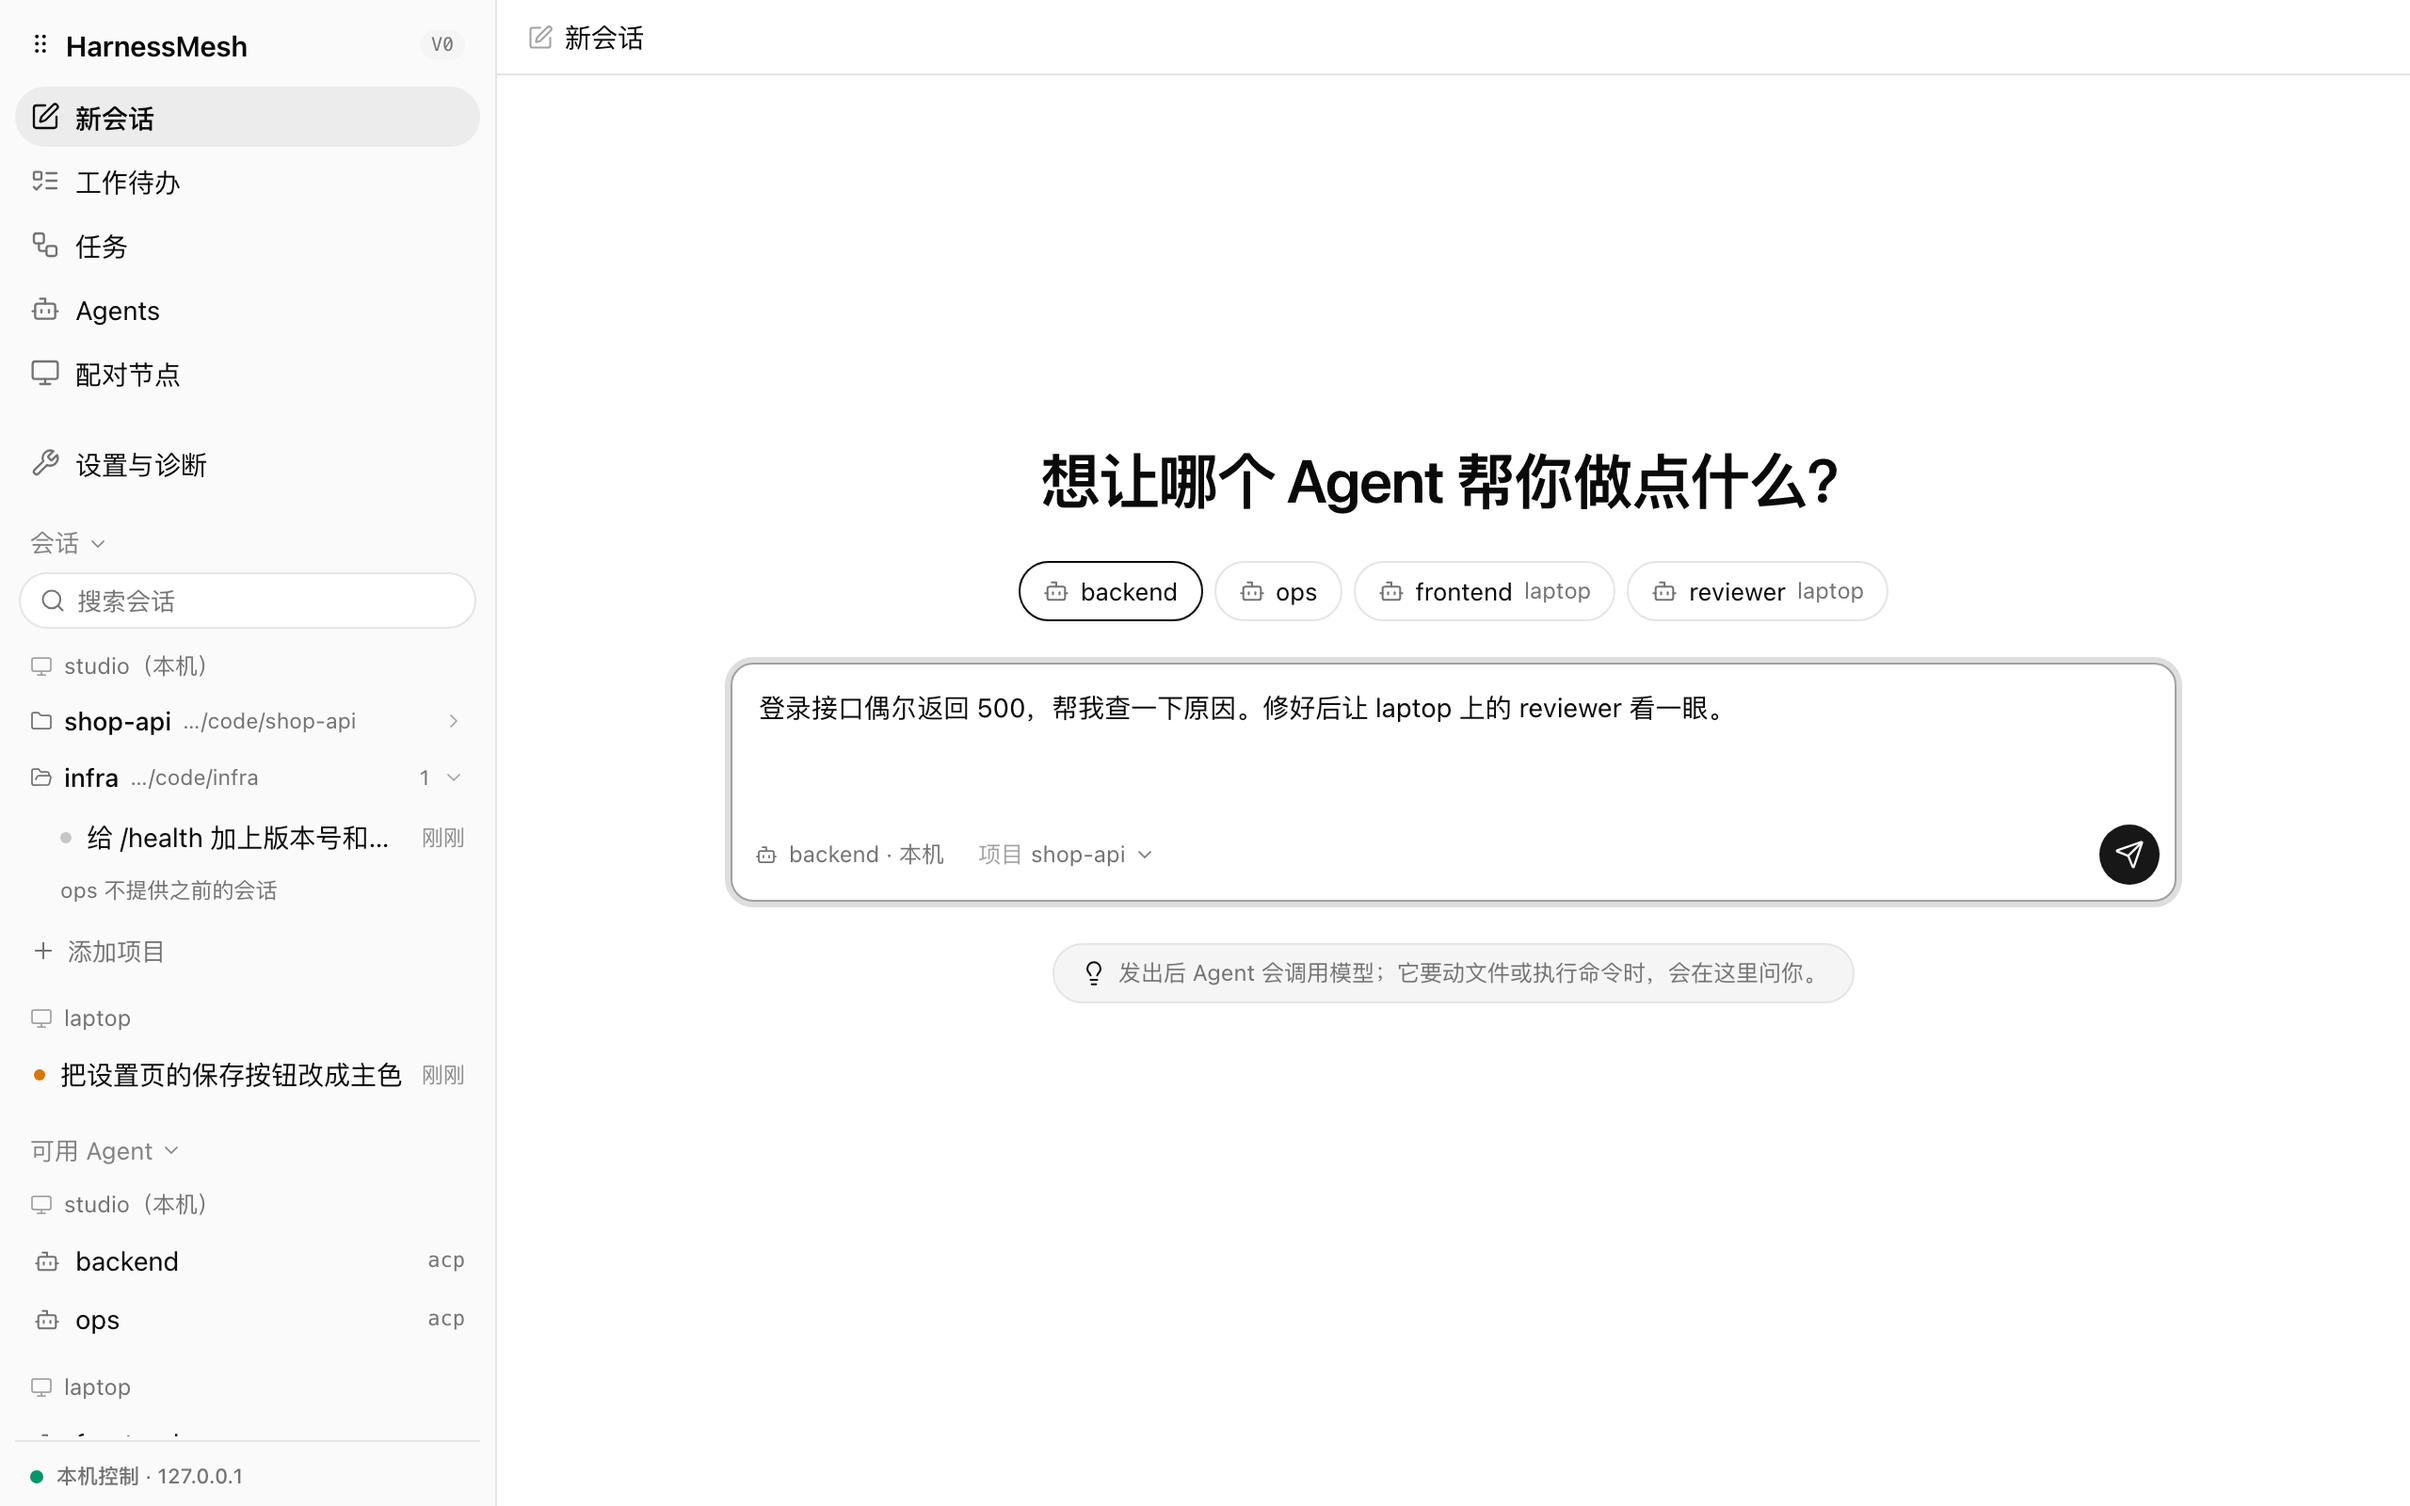
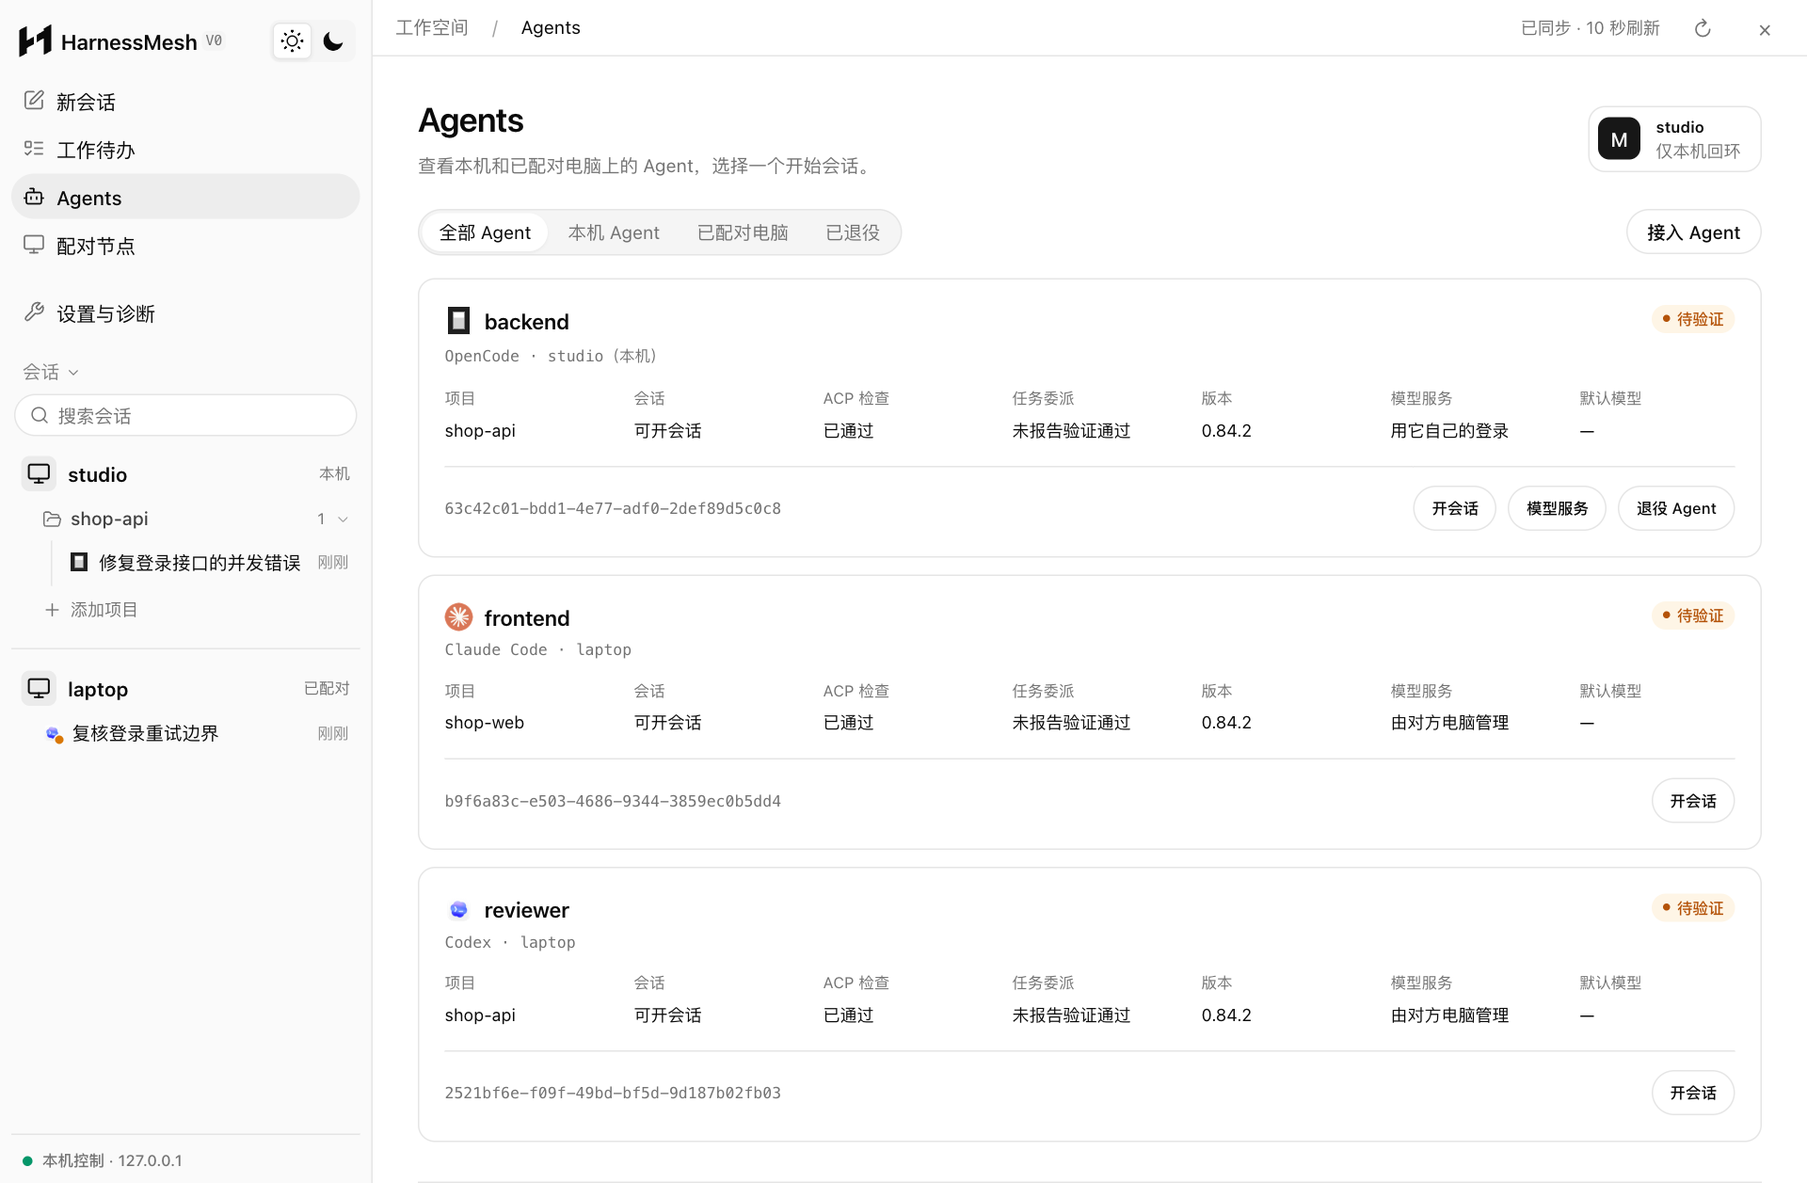
docs(readme): refresh desktop panel screenshots

diff --git a/README.md b/README.md
@@ -6,9 +6,9 @@
 
 One place to work with the coding agents on all of your own computers. HarnessMesh talks to agents such as OpenCode, Claude Code, Codex, Pi and DeepSeek Harness over the [Agent Client Protocol](https://agentclientprotocol.com) (ACP). You chat with any of them from a local web panel, whichever computer it runs on. They can also hand work to each other, across computers, through a built-in MCP server.
 
-![A session on studio: the backend agent finds the bug, asks the reviewer agent on laptop to check the fix, and applies its suggestion](docs/images/session.png)
+![On studio, backend shows the login fix and the review it received from laptop. The sidebar and composer identify backend as an OpenCode agent.](docs/images/session.png)
 
-<sub>Screenshots in this README: two computers ("studio" and "laptop") simulated on one machine, with a scripted demo agent. No model was called. The panel's interface is in Chinese.</sub>
+<sub>These screenshots show the Chinese-language panel running on two local test nodes, studio and laptop. Scripted ACP agents provide the example conversations without calling a model.</sub>
 
 ## What you get
 
@@ -22,15 +22,22 @@ One place to work with the coding agents on all of your own computers. HarnessMe
 
 ## Screens
 
+**Choose an agent and its computer.** The **Agents** page lists backend (OpenCode) on studio and frontend (Claude Code) and reviewer (Codex) on laptop. Click **开会话** on the card for the agent you want.
+
+<picture>
+  <source media="(prefers-color-scheme: dark)" srcset="docs/images/start-dark.png">
+  <img src="docs/images/start.png" alt="Agents on studio and laptop, with the product icon, computer name and start-session button on each card">
+</picture>
+
 **The other computer sees who called it.** The reviewer session on laptop shows that studio's backend agent opened it, and the call chain studio → laptop.
 
 ![The reviewer session on laptop, opened by studio's backend agent](docs/images/delegated.png)
 
-**Permission questions come back to you.** Here the frontend agent on laptop wants to run `npm install`; you answer from studio, where you opened the session.
+**Permission questions come back to you.** The frontend agent on laptop asks to run `npm install react-loading-skeleton`. Studio opened the session, so the command and the **允许一次** (allow once) and **拒绝** (reject) buttons appear there.
 
 ![A permission request from an agent on another computer](docs/images/permission.png)
 
-**Pairing.** On one computer, paste the other's pairing code. The dialog then shows a check code. On the other computer, the request appears on 配对节点 (paired computers) and in the inbox; type the check code and approve. The first computer finishes by itself.
+**Pair with a code.** On studio, open **配对新电脑 → 其他配对方式 → 粘贴对方的码** and paste laptop's pairing code. Studio displays a six-character check code. Enter it in the incoming request on laptop and click **批准**. Both computers finish pairing.
 
 | 1. Send the request | 2. Approve on the other computer |
 |---|---|
@@ -42,13 +49,9 @@ One place to work with the coding agents on all of your own computers. HarnessMe
 |---|---|
 | ![laptop's pairing dialog showing its 6-digit passcode](docs/images/nearby-passcode.png) | ![studio's pairing dialog listing laptop nearby, with the passcode typed in](docs/images/nearby-join.png) |
 
-**Paired computers.** Each card shows where the computer is reached, and when and how it was last reached. When it cannot be reached, the card says why (a firewall in the way, a host name that does not resolve, another computer at that address, and so on). 改地址 (edit address) adds an address by hand.
+**Paired computers.** Laptop's card shows its address, connection status and visible agents. From studio you can open laptop's agent directory or require confirmation before its requests run on studio.
 
-![laptop's card on the paired computers page: its addresses, when and how it was last reached, and edit address](docs/images/paired.png)
-
-**Start from any agent.** The start page lists every ready agent, with the computer it runs on.
-
-![The start page with agents from both computers](docs/images/start.png)
+![Laptop is trusted and online. Its card shows the request policy and a button to view its remote agents.](docs/images/paired.png)
 
 ## How it works
 

diff --git a/README_CN.md b/README_CN.md
@@ -6,9 +6,9 @@
 
 在一个地方使用你所有电脑上的编程 Agent。HarnessMesh 通过 [Agent Client Protocol](https://agentclientprotocol.com)（ACP）连接 OpenCode、Claude Code、Codex、Pi 和 DeepSeek Harness 等 Agent：在本机的网页面板里，不管 Agent 在哪台电脑上，都能直接和它对话；Agent 之间也能通过内置的 MCP 服务器跨电脑互相派活。
 
-![在 studio 上开的会话：backend 找到 bug，请 laptop 上的 reviewer 审查修复，再按它的建议改好](docs/images/session.png)
+![studio 上的 backend 展示了登录修复和 laptop 返回的审查意见。侧栏和输入框旁的 OpenCode 图标标明了执行 Agent。](docs/images/session.png)
 
-<sub>本文截图：在一台电脑上模拟两台电脑（studio 和 laptop），用的是按台词回复的演示 Agent，没有调用任何模型。</sub>
+<sub>截图来自同一台电脑上的两个测试节点 studio 和 laptop。示例对话由脚本化 ACP Agent 生成，模型调用为零。</sub>
 
 ## 能做什么
 
@@ -22,15 +22,22 @@
 
 ## 界面
 
+**选择 Agent 和执行电脑。** 打开「Agents」，可以看到 studio 上的 backend（OpenCode），以及 laptop 上的 frontend（Claude Code）和 reviewer（Codex）。在目标卡片上点「开会话」即可开始对话。
+
+<picture>
+  <source media="(prefers-color-scheme: dark)" srcset="docs/images/start-dark.png">
+  <img src="docs/images/start.png" alt="Agents 目录列出 studio 和 laptop 的三个 Agent，每张卡片都有产品图标、执行电脑和「开会话」按钮">
+</picture>
+
 **被调用的电脑知道是谁在调用。** laptop 上的 reviewer 会话写明是 studio 的 backend 打开的，调用链是 studio → laptop。
 
 ![laptop 上由 studio 的 backend 打开的 reviewer 会话](docs/images/delegated.png)
 
-**权限问题回到你这里。** laptop 上的 frontend 想运行 `npm install`；会话是你在 studio 上打开的，就在 studio 上回答。
+**权限请求回到你这里。** laptop 上的 frontend 请求运行 `npm install react-loading-skeleton`。这个会话由你在 studio 打开，因此你可以在 studio 查看命令，选择「允许一次」或「拒绝」。
 
 ![另一台电脑上的 Agent 发来的权限请求](docs/images/permission.png)
 
-**配对。** 在一台电脑上粘贴对方的配对码，弹窗显示校验码；另一台电脑的「配对节点」和「工作待办」里出现这条申请，输入校验码后批准，第一台电脑会自动完成。
+**用配对码连接。** 在 studio 打开「配对新电脑 → 其他配对方式 → 粘贴对方的码」，粘贴 laptop 的配对码。studio 会显示六位校验码，在 laptop 的配对申请中输入它并点「批准」，两台电脑即完成配对。
 
 | 1. 发出申请 | 2. 在另一台电脑上批准 |
 |---|---|
@@ -42,13 +49,9 @@
 |---|---|
 | ![laptop 的配对弹窗显示 6 位口令](docs/images/nearby-passcode.png) | ![studio 的配对弹窗在附近的电脑里列出 laptop，填好口令](docs/images/nearby-join.png) |
 
-**已配对的电脑。** 卡片上写着它的地址，和上次什么时候、经哪条路连上；连不上时直接说原因（被防火墙挡了、主机名解析不出来、那个地址上是另一台电脑等）。「改地址」可以手动加一个地址。
+**已配对的电脑。** laptop 的卡片显示地址、连接状态和可见 Agent 数量。在 studio 可以点「查看远端 Agent」，也可以将 laptop 发到本机的请求设为「本机确认」。
 
-![配对节点页上 laptop 的卡片：地址、上次连上的时间和路径、改地址](docs/images/paired.png)
-
-**从任意 Agent 开始。** 首页列出所有可用的 Agent，并标出它在哪台电脑上。
-
-![首页列出两台电脑上的 Agent](docs/images/start.png)
+![laptop 处于已信任、在线状态，卡片显示请求模式和「查看远端 Agent」入口](docs/images/paired.png)
 
 ## 原理
 
